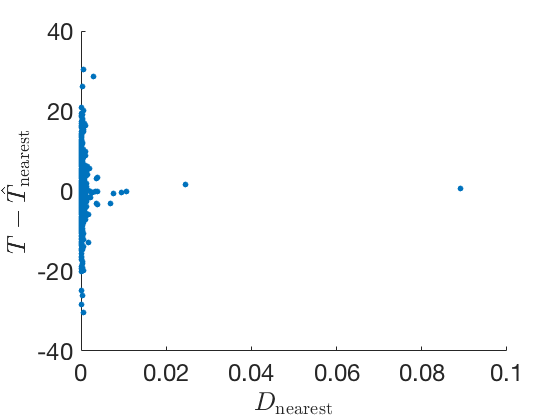
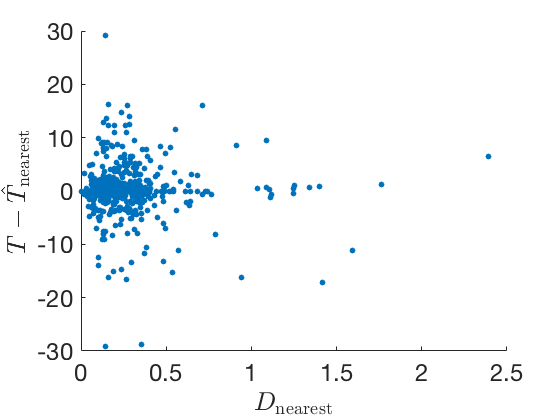
Done through TEX86.

diff --git a/Paleo.tex b/Paleo.tex
@@ -110,7 +110,7 @@ The nearest-sample temperature predictor is $\hat{T}_\textrm{nearest} (x) = T(y)
 	\caption{\label{fig:Tnearest}  The standard error of the nearest-neighbour temperature predictor as a function of the distance to the nearest calibration sample.}
 \end{figure}
 
-On the other hand, the standard error for the nearest-neighbour temperature predictor is $\delta T_\mathrm{nearest} = 4.4$ degrees.  This is less than half of the standard deviation $\sigma T$ in the temperature values across the modern data set. Thus, the temperatures corresponding to nearby points in GDGT observable space also cluster in temperature space.  Consequently, there is hope that we can make some useful if imperfect temperature predictions.  The value of $\delta T_\mathrm{nearest}$ will also serve as a useful benchmark in this design: while we may hope to do better by, say, suitably averaging over multiple nearby calibration points rather than adopting the temperature at one nearest point as a predictor, any method that performs worse than the nearest-neighbour predictor is clearly suboptimal. 
+On the other hand, the standard error for the nearest-neighbour temperature predictor is $\delta T_\mathrm{nearest} = 4.5$ degrees.  This is less than half of the standard deviation $\sigma T$ in the temperature values across the modern data set. Thus, the temperatures corresponding to nearby points in GDGT observable space also cluster in temperature space.  Consequently, there is hope that we can make some useful if imperfect temperature predictions.  The value of $\delta T_\mathrm{nearest}$ will also serve as a useful benchmark in this design: while we may hope to do better by, say, suitably averaging over multiple nearby calibration points rather than adopting the temperature at one nearest point as a predictor, any method that performs worse than the nearest-neighbour predictor is clearly suboptimal. 
 
 \subsection{TEX$_{86}$}
 
@@ -120,10 +120,13 @@ A particular combination of GDGTs known as TEX$_{86}$ has been regularly used as
 \ee
 TEX$_{86}$ reduces the six-dimensional observable space to a single number.  While this has the advantage of convenience for manipulation and simple analytic formulae for predictors, as illustrated below, this approach has one critical disadvantage: it wastes the information embedded in hard-earned data.  Figure \ref{fig:TEX86} illustrates both the advantage and disadvantage of TEX$_{86}$.  On the one hand, there is a clear correlation between TEX$_{86}$ and the temperature (left panel of \autoref{fig:TEX86}), with a correlation coefficient of $0.81$ corresponding to an overwhelming statistical significance of $10^{-198}$.  On the other hand, very similar TEX$_{86}$ values can correspond to very different temperatures.  We can apply the nearest-neighbour temperature prediction approach to the TEX$_{86}$ value alone rather than the full GDGT parameter space; this predictor yields a large standard error of $\delta T_\mathrm{nearest TEX86} = 8.0$ degrees (right panel of \autoref{fig:TEX86}).  While smaller than $\sigma T$, this is significantly larger than $\delta T_\mathrm{nearest}$, consistent with the loss of information in TEX$_{86}$.  We therefore do not expect other predictors based on TEX$_{86}$ to perform as well as those based on the full available data set.
 
-Indeed, this is what we find when we consider predictors of the form $\hat{T}_\mathrm{OneTEX}  = a + b / \mathrm{TEX}_{86}$ \citeme and $\hat{T}_\mathrm{TEXH}  = c + d \log \mathrm{TEX}_{86}$ \citeme.  We fit the free parameters $a, b, c, d$ by minimising the sum of squares of the residuals over the calibration data sets.  For example,
+Indeed, this is what we find when we consider predictors of the form $\hat{T}_\mathrm{OneTEX}  = a + b / \mathrm{TEX}_{86}$ \citeme and $\hat{T}_\mathrm{TEXH}  = c + d \log \mathrm{TEX}_{86}$ \citeme.  We fit the free parameters $a, b, c, d$ by minimising the sum of squares of the residuals over the calibration data sets.  We find that \tocheck{$\delta T_\mathrm{OneTEX} = 6.1$ degrees} (note that this is slightly better than using the fixed values of $a$ and $b$ from \citeme, which would yield \tocheck{$\delta T_\mathrm{OneTEX} = 6.2$ degrees}.  Meanwhile \ilya{[Will, this is for you: ]} $\delta T_\mathrm{TEXH} = XXX$ degrees.  \ilya{[Should we also include TEXL?]}  
+
+\ilya{[Will: this part about Bayespar is for you]} \citeme proposed a more sophisticated approach to obtaining the transfer function from TEX$_{86}$ to temperature ...  However, along with the simpler TEX$_{86}$--based models described above, this approach still suffers from the arbitrary reduction of a six-dimensional data set to a single number.  Therefore, it is not surprising that it performs more poorly than what could be achieved even with the simplest nearest-neighbour predictor using the full six-dimensional data set.
+
+We now consider improvements on the nearest-neighbour predictor motivated by machine learning techniques.  
 
 
-This suggests, not surprisingly, that TEX$_{86}$ does not contain 
 
 
 

diff --git a/TEX.m b/TEX.m
@@ -141,20 +141,22 @@ eocene=xlsread('~/Work/Paleo/Data201803.xlsx','Eocene');
 stdmodern=(std(modern));
 
 
+clear distmin; clear distsq; clear temptrue; clear tempguess;
 validation=load('~/Work/Paleo/validation.txt');
-clear distmin; clear distsq;
+temptrue=modern(validation,9);
 Nval=length(validation);
 valcount=numel(validation)/length(validation);
+
 for(k=1:valcount),
     arr=[1:length(modern)];
     calibrationindex=~ismember(1:length(modern),validation(:,k));
     calibration=arr(calibrationindex);
     for(i=1:Nval),
         for(j=1:length(calibration)),
-            dist=(modern(j,1:6)-modern(validation(i,k),1:6))./stdmodern(1:6);
-            distsq(j)=sqrt(sum(dist.^2));
-            if(find(j==validation(:,k))), distsq(j)=inf; end;
+            dist=(modern(calibration(j),1:6)-modern(validation(i,k),1:6))./stdmodern(1:6);
+            distsq(calibration(j))=sqrt(sum(dist.^2));
         end;
+        distsq(validation(:,k))=inf; 
         [distmin(i,k),index(i,k)]=min(distsq);
     end;
 end;
@@ -165,7 +167,6 @@ set(gca, 'FontSize', 24);
 %xlabel('Normalized distance to nearest calibration point')%, title('Modern')
 xlabel('$D_\mathrm{nearest}$','Interpreter', 'latex'), 
 
-temptrue=modern(validation,9);
 tempguess=modern(index,9);
 figure(2), set(gca, 'FontSize', 16);
 scatter(distmin(:),tempguess(:)-temptrue(:),'filled');
@@ -185,12 +186,18 @@ corr(TEX86modern,modern(:,9))
 
 
 for(k=1:valcount),
+    arr=[1:length(modern)];
+    calibrationindex=~ismember(1:length(modern),validation(:,k));
+    calibration=arr(calibrationindex);
     for(i=1:Nval),
-        for(j=1:length(modern)),
-            dist=(TEX86modern(j)-TEX86modern(validation(i,k)));
-            distsq(j)=sqrt(sum(dist.^2));
-            if(find(j==validation(:,k))), distsq(j)=inf; end;
+            arr=[1:length(modern)];
+            calibrationindex=~ismember(1:length(modern),validation(:,k));
+            calibration=arr(calibrationindex);
+        for(j=1:length(calibration)),
+            dist=(TEX86modern(calibration(j))-TEX86modern(validation(i,k)));
+            distsq(calibration(j))=sqrt(sum(dist.^2));
         end;
+        distsq(validation(:,k))=inf; 
         [distmin(i,k),index(i,k)]=min(distsq);
     end;
 end;
@@ -213,15 +220,12 @@ for(k=1:valcount),
     p=polyfit(1./TEX86modern(calibration),modern(calibration,9),1)
     tempguess(:,k) = polyval(p,1./TEX86modern(validation(:,k)));
 end;
-figure(6), set(gca, 'FontSize', 16);
-scatter(EuFe(:,1),EuFe(:,2),'filled'); hold on;
-plot(EuFe(:,1),yfit,'LineWidth',3); hold off;
-set(gca, 'FontSize', 24);
-xlabel('[Fe/H]'); ylabel('[Eu/H]'); title('Linear fit to data in EMP-RGB file');
-legend('Data', 'Linear fit','Location','Best');
+std(temptrue-tempguess(:))
+std(modern(:,9))
+OneTEX=54.5-19.1./TEX86modern(validation);
+std(temptrue-OneTEX(:))
 
 TEXH=38.6+68.4*log(TEX86modern)/log(10);
-OneTEX=54.5-19.1./TEX86modern;
 TEXL=67.5*modern(:,1)+46.9;
 mean(temptrue'-TEXH(1:floor(length(modern)/2)))
 mean(abs(temptrue'-TEXH(1:floor(length(modern)/2))))
